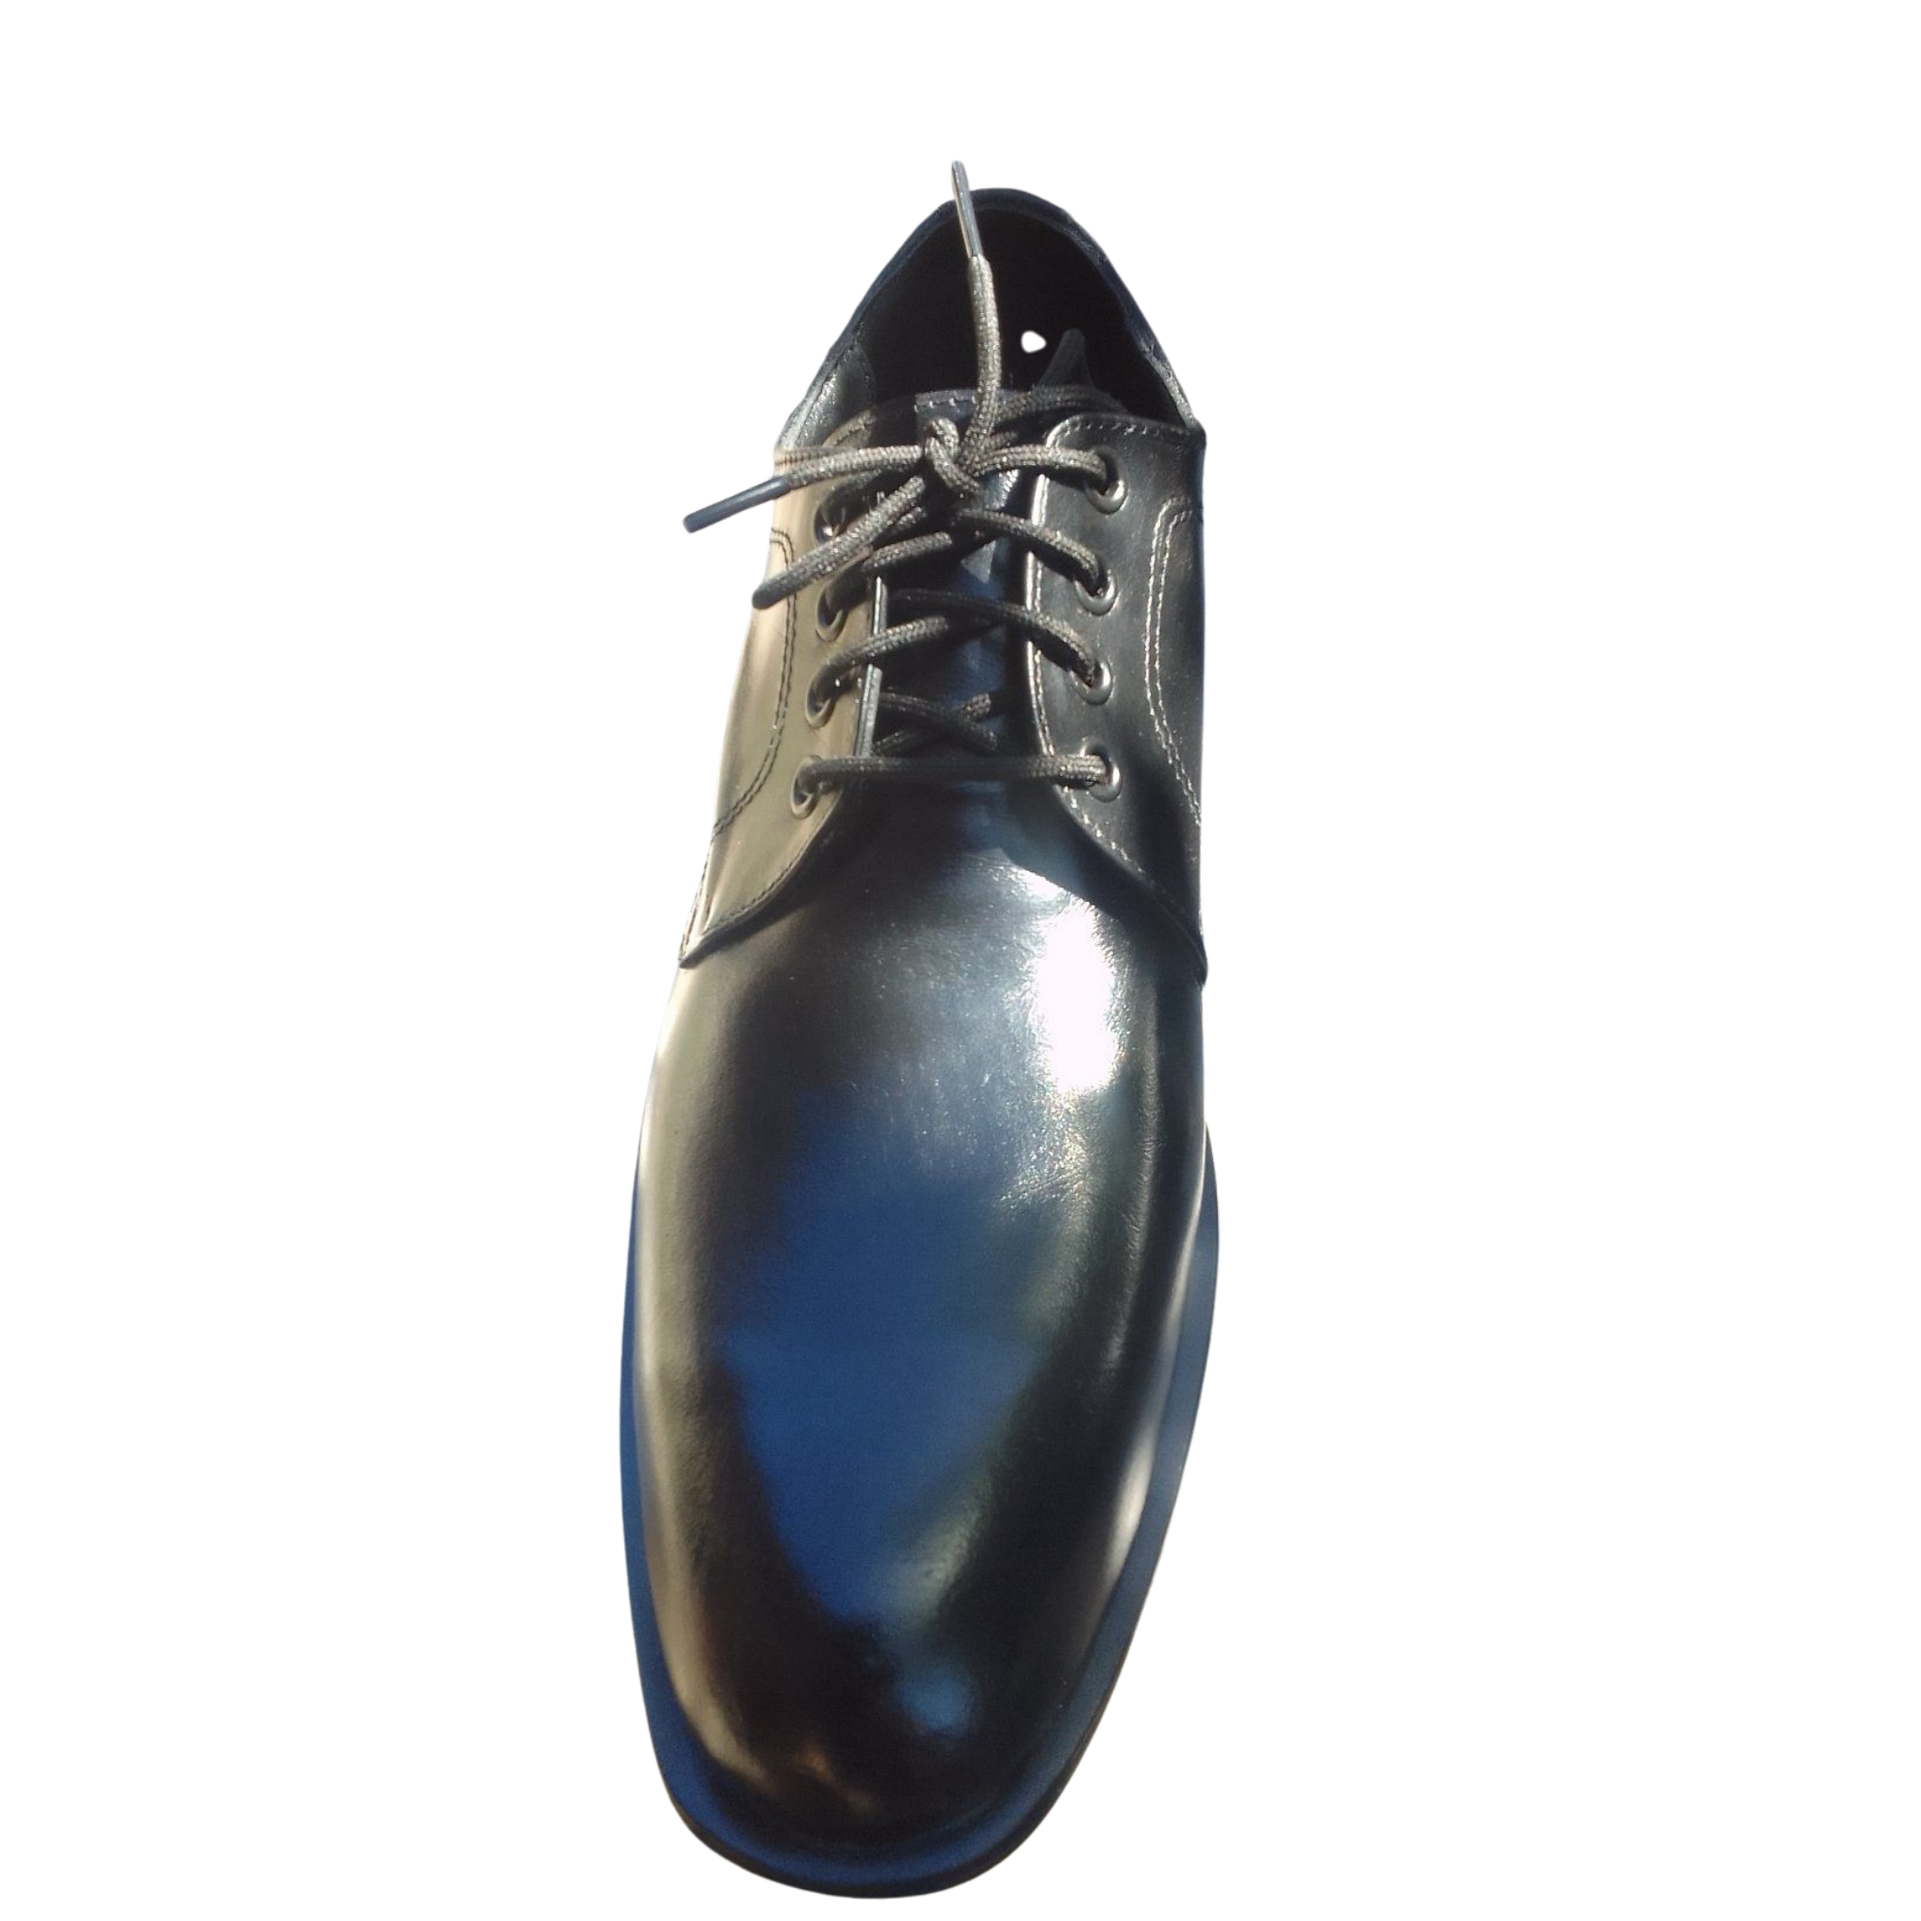
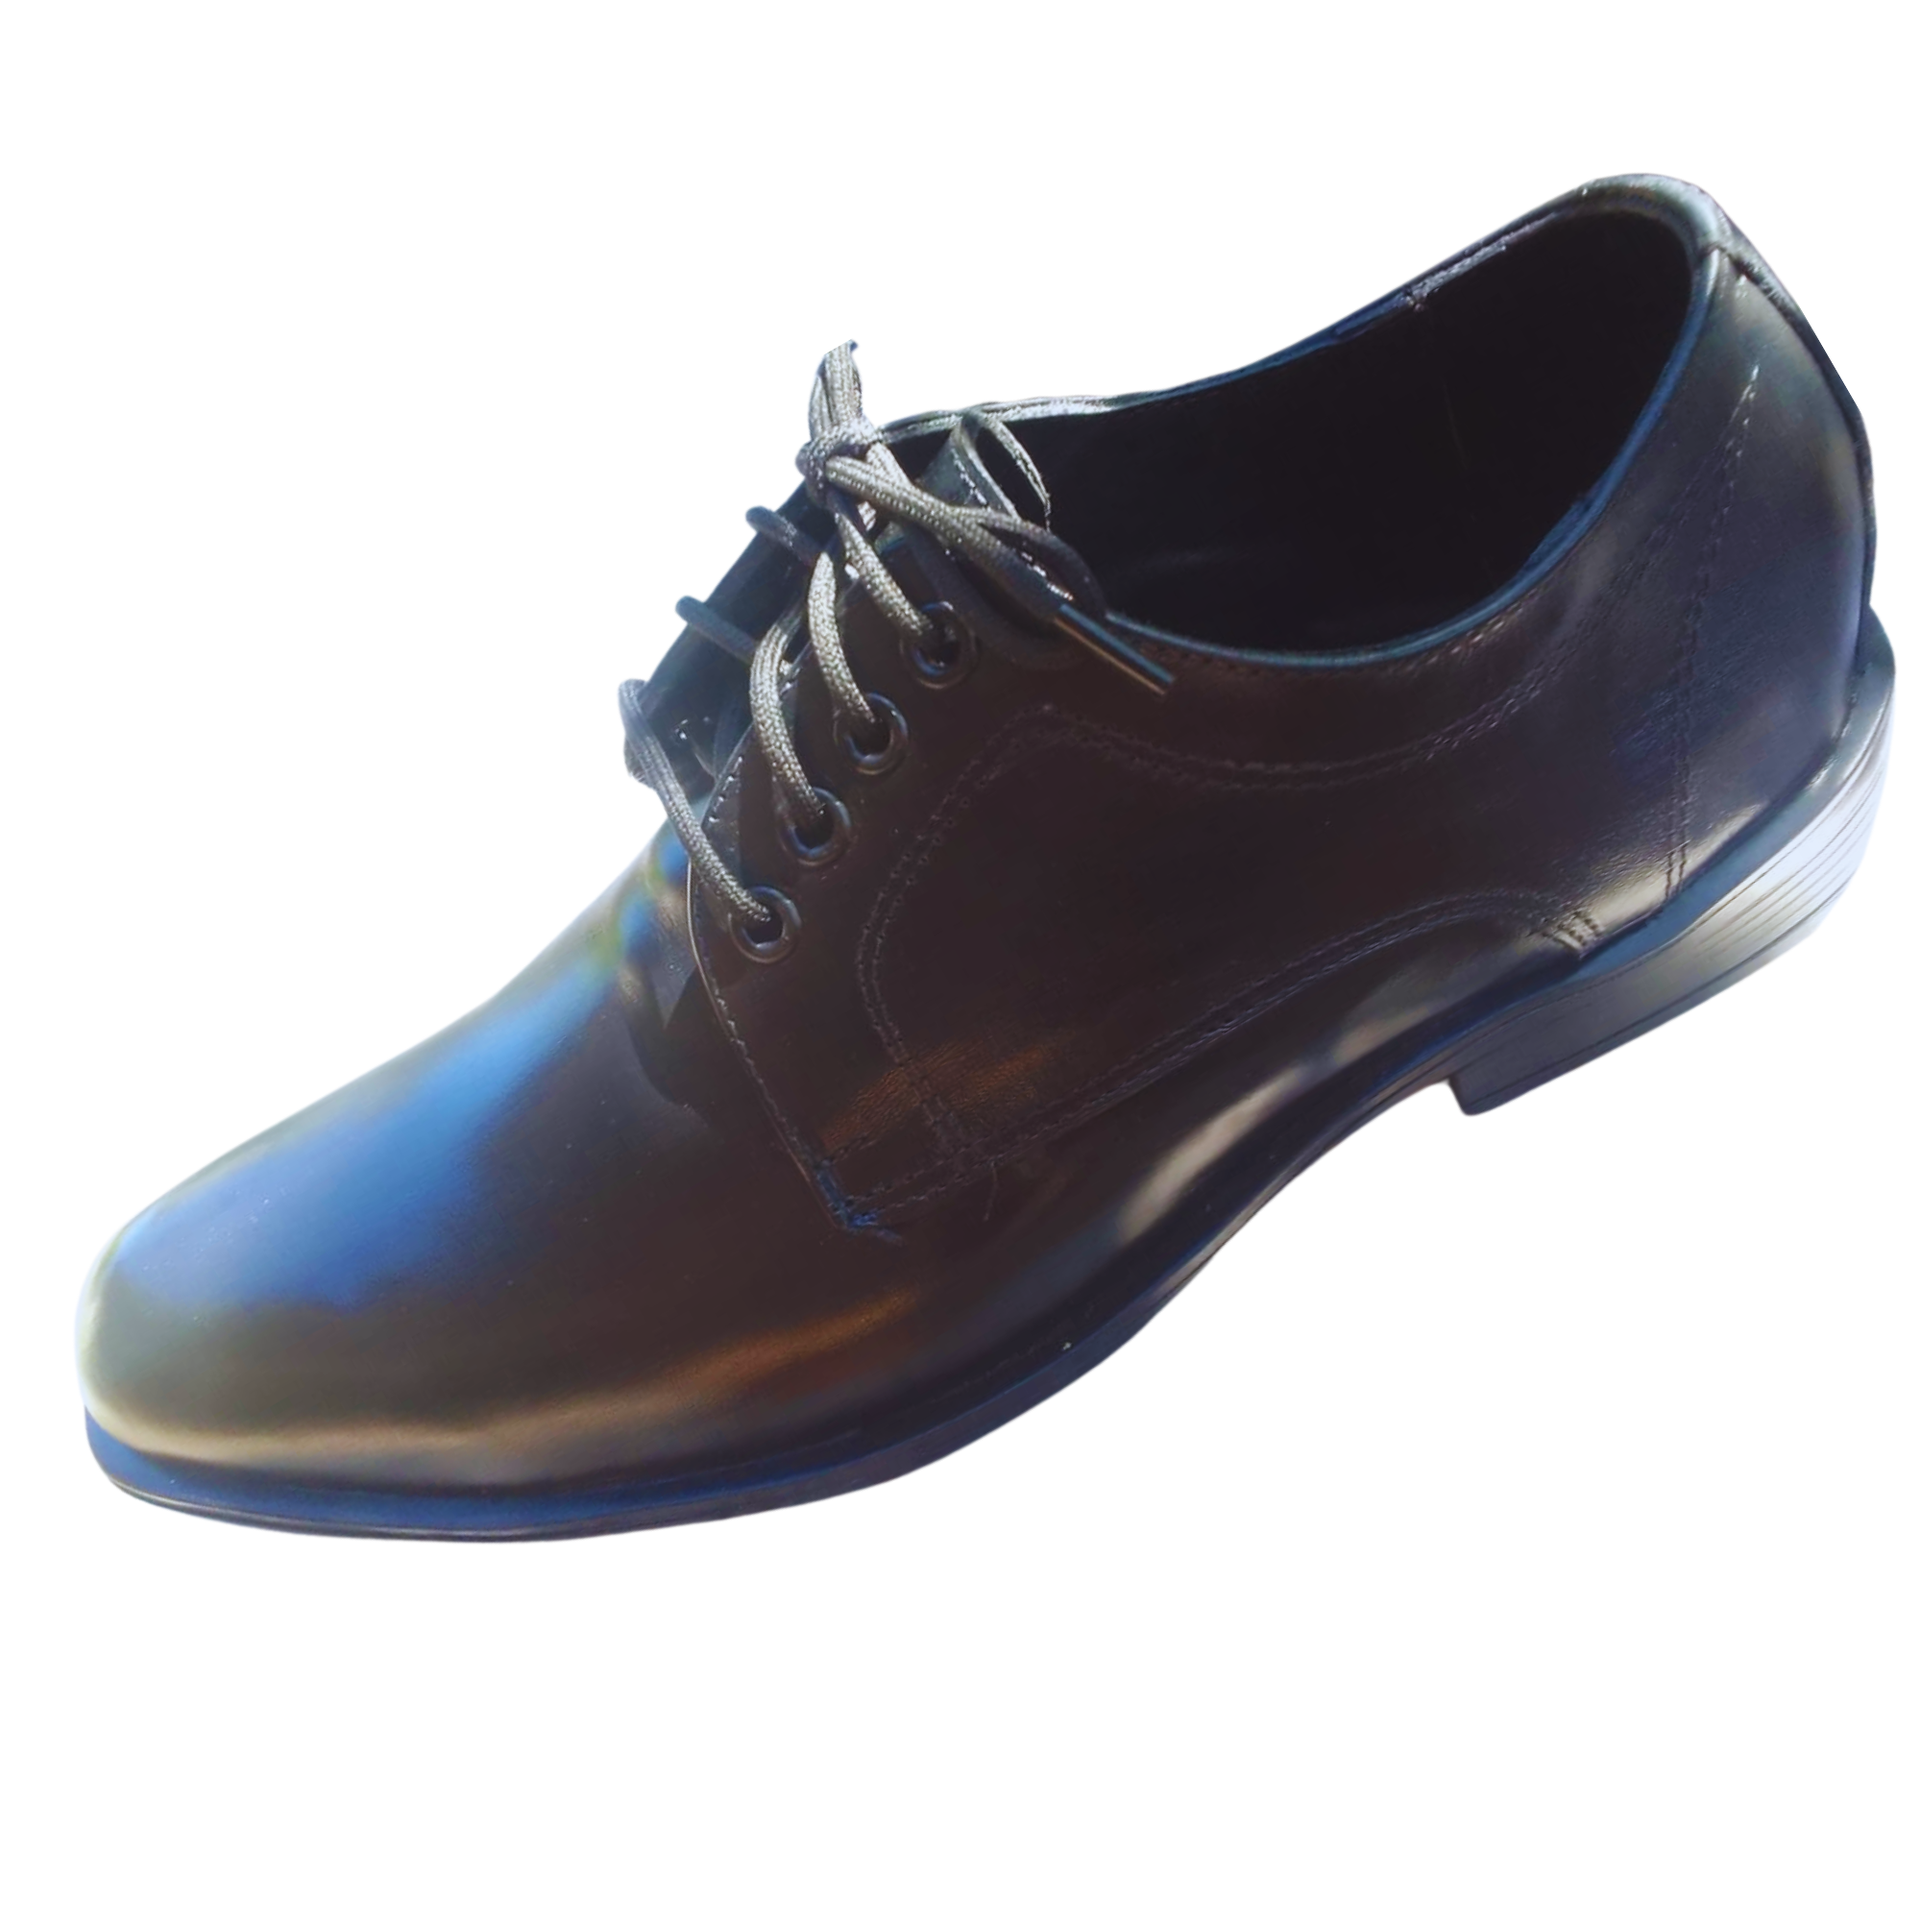
modificaciones en img y en el componente de catalogo

diff --git a/src/components/Catalogo.tsx b/src/components/Catalogo.tsx
@@ -5,90 +5,46 @@ import Image from "next/image";
 import Link from "next/link";
 import { IoLogoWhatsapp } from "react-icons/io";
 
+const productos = [
+    { id: 1, nombre: "Borcego", desc: "Cuero, suela de caucho y máximo confort para el trabajo.", precio: "70.000", img: "/img/1.png", talle: `39 - 46` },
+    { id: 2, nombre: "Zapato", desc: "Diseño minimalista en cuero, con acabados artesanales.", precio: "70.000", img: "/img/2.png" , talle: `39 - 46` },
+    { id: 3, nombre: "Zapatillas", desc: "descripcion", precio: "50.000", img: "/img/3.png" , talle: `39 - 46` },
+    { id: 3, nombre: "Zapato de Mujer", desc: "descripcion", precio: "50.000", img: "/img/4.png" , talle: `39 - 46` },
+    { id: 3, nombre: "Sandalias", desc: "descripcion", precio: "50.000", img: "/img/5.png" , talle: `39 - 46` },
+];
+
 export default function Catalogo() {
     return (
         <section className={style_catalogo.catalogo}>
-            <div className={style_catalogo.catalogo_grid}>
-                <div className={style_catalogo.catalogo_card}>
-                    <div className={style_catalogo.catalogo_imagen_container}>
-                        <Image 
-                            className={style_catalogo.catalogo_img}
-                            src="/img/1.png" 
-                            alt="Borcegos"
-                            width={200}
-                            height={200}
-                            priority
-                        />
-                        <span className={style_catalogo.catalogo_rating}>4.9 ★</span>
-                    </div>
-                    <div className={style_catalogo.catalogo_info}>
-                        <h3 className={style_catalogo.catalogo_titulo}>Borcegos</h3>
-                        <p className={style_catalogo.catalogo_desc}>Cuero sintético, suela de caucho y máximo confort para el día a día.</p>
-                        <div className={style_catalogo.catalogo_footer}>
-                            <span className={style_catalogo.catalogo_precio}>$25.000</span>
-                            <Link
-                                href={`https://wa.me/5491158007420?text=https://elu-r0f5.onrender.com%20Hola!%20Me%20gustaría%20más%20información%20sobre:%Borcegos`}
-                                target="_blank"
-                                rel="noopener noreferrer"
-                                className={style_catalogo.catalogo_btn_add}
-                            ><IoLogoWhatsapp /></Link>
+            <div className={style_catalogo.catalogo_grid}>   
+                {productos.map((prod) => (
+                    <div className={style_catalogo.catalogo_card}>
+                        <div className={style_catalogo.catalogo_imagen_container}>
+                            <Image 
+                                className={style_catalogo.catalogo_img}
+                                src={prod.img}
+                                alt={prod.nombre}
+                                width={200}
+                                height={200}
+                                priority
+                            />
+                            <span className={style_catalogo.catalogo_rating}>{prod.talle}</span>
+                        </div>
+                        <div className={style_catalogo.catalogo_info}>
+                            <h3 className={style_catalogo.catalogo_titulo}>{prod.nombre}</h3>
+                            <p className={style_catalogo.catalogo_desc}>{prod.desc}</p>
+                            <div className={style_catalogo.catalogo_footer}>
+                                <span className={style_catalogo.catalogo_precio}>${prod.precio}</span>
+                                <Link
+                                    href={`https://wa.me/5491158007420?text=https%3A%2F%2Felucalzados.netlify.app%0AHola!%20Me%20gustaría%20más%20información%20sobre:%0AProducto:%20${prod.nombre}%0APrecio:%20$${prod.precio}%0ADescripción:%20${prod.desc}`}
+                                    target="_blank"
+                                    rel="noopener noreferrer"
+                                    className={style_catalogo.catalogo_btn_add}
+                                ><IoLogoWhatsapp /></Link>
+                            </div>
                         </div>
                     </div>
-                </div>
-                
-                <div className={style_catalogo.catalogo_card}>
-                    <div className={style_catalogo.catalogo_imagen_container}>
-                        <Image 
-                            className={style_catalogo.catalogo_img}
-                            src="/img/2.png" 
-                            alt="Zapato Deportivo"
-                            width={200}
-                            height={200}
-                            priority
-                        />
-                        <span className={style_catalogo.catalogo_rating}>5.0 ★</span>
-                    </div>
-                    <div className={style_catalogo.catalogo_info}>
-                        <h3 className={style_catalogo.catalogo_titulo}>Zapato</h3>
-                        <p className={style_catalogo.catalogo_desc}>Diseño minimalista en cuero legítimo con acabados artesanales.</p>
-                        <div className={style_catalogo.catalogo_footer}>
-                            <span className={style_catalogo.catalogo_precio}>$28.2000</span>
-                            <Link
-                                href={`https://wa.me/5491158007420?text=https://elu-r0f5.onrender.com%20Hola!%20Me%20gustaría%20más%20información%20sobre:%Zapato`}
-                                target="_blank"
-                                rel="noopener noreferrer"
-                                className={style_catalogo.catalogo_btn_add}
-                            ><IoLogoWhatsapp /></Link>
-                        </div>
-                    </div>
-                </div>
-
-                <div className={style_catalogo.catalogo_card}>
-                    <div className={style_catalogo.catalogo_imagen_container}>
-                        <Image 
-                            className={style_catalogo.catalogo_img}
-                            src="/img/3.png" 
-                            alt="Zapatillas"
-                            width={200}
-                            height={200}
-                            priority
-                        />
-                        <span className={style_catalogo.catalogo_rating}>4.7 ★</span>
-                    </div>
-                    <div className={style_catalogo.catalogo_info}>
-                        <h3 className={style_catalogo.catalogo_titulo}>Zapatillas</h3>
-                        <p className={style_catalogo.catalogo_desc}>Resistencia y distinción. Ideal para marcas de alto rendimiento.</p>
-                        <div className={style_catalogo.catalogo_footer}>
-                            <span className={style_catalogo.catalogo_precio}>$32.000</span>
-                            <Link
-                                href={`https://wa.me/5491158007420?text=https://elu-r0f5.onrender.com%20Hola!%20Me%20gustaría%20más%20información%20sobre:%Zapatillas`}
-                                target="_blank"
-                                rel="noopener noreferrer"
-                                className={style_catalogo.catalogo_btn_add}
-                            ><IoLogoWhatsapp /></Link>
-                        </div>
-                    </div>
-                </div>
+                ))}
             </div>
         </section>
     );
